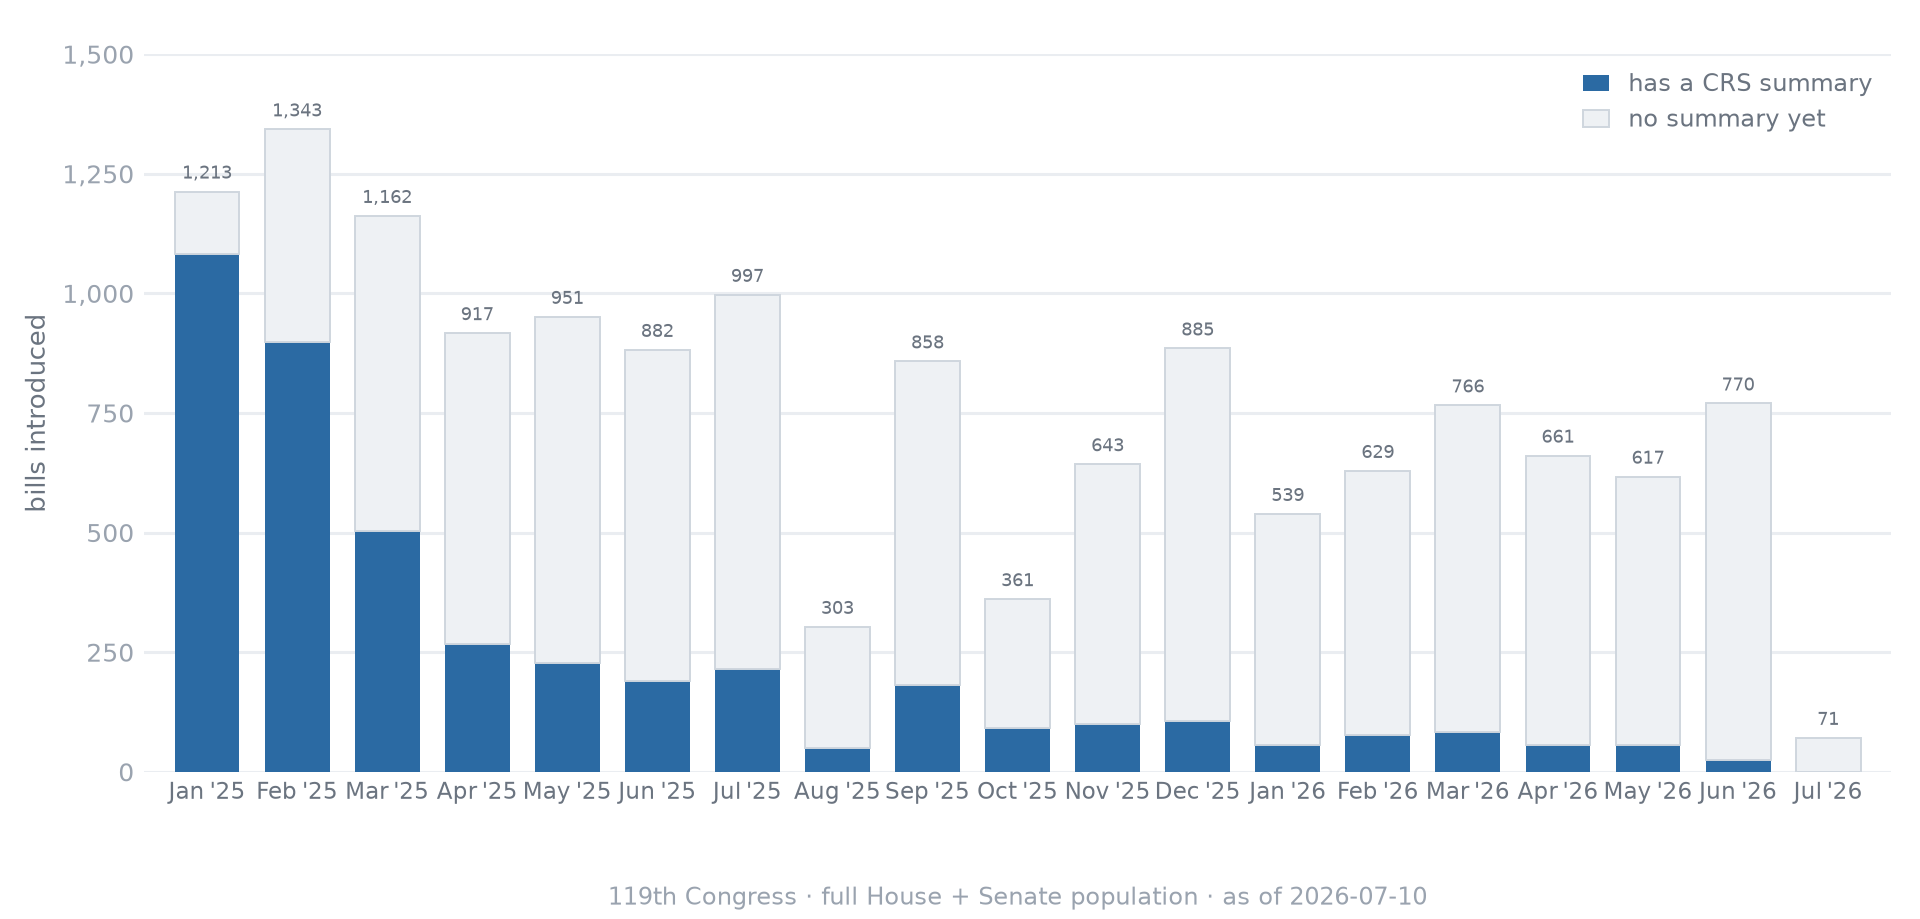
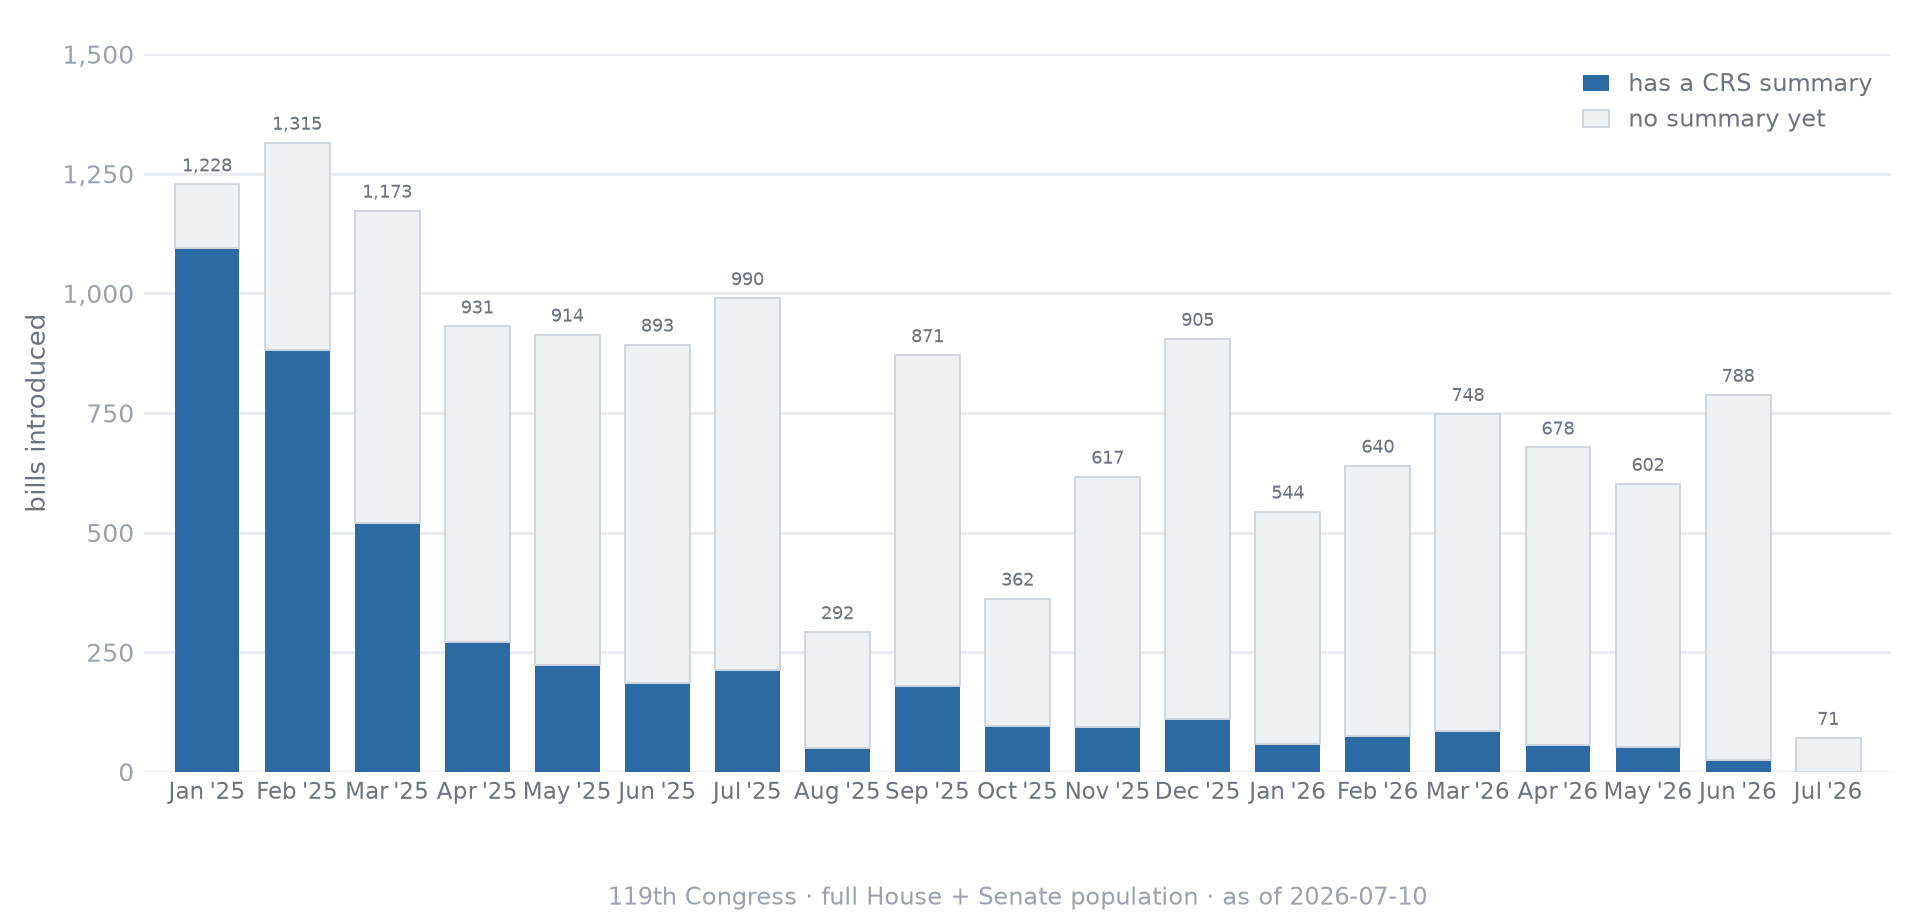
Lag monthly volume: exact full-population dates, no sampling or interpolation
Replaces the number->month interpolation with every bill's real introducedDate,
parsed from the GovInfo BILLSTATUS bulk data (one ~small zip per chamber). All
14,562 House+Senate bills are placed on the timeline by their exact introduced
month — the full population, not a sample. Verified against the census (matches
to within a handful of bills GovInfo lacks a date for).

analyze_lag.py: new govinfo_intro_months() (live) and api_intro_months()
(offline/fixture) both give exact per-bill months; the random sample now
survives only as the stage-classifier QA check (stage_agreement) and feeds no
displayed count. months[] carries just volume_total / volume_summarized. initLag
computes recent coverage from the exact volume and no longer calls the monthly
data a sample. Docstring, README, and tests updated.

Claude-Session: https://claude.ai/code/session_01AW3Ac5hqtSWnUr1gG9N3MG

diff --git a/docs/assets/app.js b/docs/assets/app.js
@@ -482,13 +482,17 @@ async function initLag() {
 
   const hr = d.chambers.hr, s = d.chambers.s;
   const totBills = hr.total + s.total, totSum = hr.summarized + s.summarized;
+  // recent coverage from the exact monthly volume (pooled over the last 3 months)
   const recent = d.months.slice(-3);
-  const recentCov = recent.reduce((a, m) => a + m.coverage, 0) / recent.length;
+  const recentTot = recent.reduce((a, m) => a + (m.volume_total || 0), 0);
+  const recentSum = recent.reduce((a, m) => a + (m.volume_summarized || 0), 0);
+  const recentCov = recentTot ? recentSum / recentTot
+    : (recent.length ? recent.reduce((a, m) => a + (m.coverage || 0), 0) / recent.length : null);
   const fmtK = (n) => n.toLocaleString("en-US");
 
-  meta.textContent = `${d.congress}th Congress · ${fmtK(d.sampled)} bills sampled · as of ${d.generated_at}` +
+  meta.textContent = `${d.congress}th Congress · full House + Senate population · as of ${d.generated_at}` +
     (typeof d.stage_agreement === "number"
-      ? ` · stage classifiers agree on ${pct(d.stage_agreement)} of sampled bills`
+      ? ` · stage classifiers agree on ${pct(d.stage_agreement)} of a QA sample`
       : "");
 
   let cards;

diff --git a/src/analyze_lag.py b/src/analyze_lag.py
@@ -2,18 +2,19 @@
 
 "How behind" has three parts now (issue #6):
 - the backlog: what share of bills have no CRS summary yet,
-- the timing lag: coverage as a function of how recently a bill was introduced,
+- monthly volume: how many bills are introduced each month and how many are summarized —
+  the FULL population, every bill placed by its exact introducedDate,
 - coverage by legislative stage: CRS prioritizes bills that MOVE, so coverage is also
   measured against bills that advanced (committee action / floor consideration), not
   just against everything introduced.
 
-Stage data comes from two layers. A full census pages the `bill/{congress}/{type}`
-list endpoint (~250 bills/request) and classifies every bill's `latestAction` text with
-src/stages.py — floor-stage bills are far too rare for a random sample to measure, so
-the census provides exact per-stage denominators. The random sample (unchanged, for the
-by-month series) additionally fetches each sampled bill's `/actions` list and classifies
-the full action history; agreement between the two classifiers is reported as
-`stage_agreement`, a validity check on the cheaper latestAction census.
+All three are exact, not sampled. A full census pages the `bill/{congress}/{type}` list
+endpoint and classifies every bill's `latestAction` text with src/stages.py for the
+per-stage totals. Monthly volume reads every bill's exact `introducedDate` from the
+GovInfo BILLSTATUS bulk data (one small zip per chamber). A small random sample survives
+only as QA: it fetches each sampled bill's `/actions` history and reports `stage_agreement`
+— how often the cheap latestAction classifier matches the full-history one — and feeds no
+displayed count.
 
 Note: Congress.gov `updateDate` fields are bulk-refreshed, so we measure *whether a
 summary exists today* (reliable), not the exact authoring date. Usage:
@@ -24,12 +25,14 @@ from __future__ import annotations
 
 import argparse
 import asyncio
-import bisect
 import json
 import os
 import random
+import re
 import sys
+import tempfile
 import time
+import zipfile
 from collections import defaultdict
 from pathlib import Path
 
@@ -129,25 +132,48 @@ async def sample_bills(get, congress, btype, total, k, summ):
     return [r for r in await asyncio.gather(*[one(n) for n in nums]) if r[1]]
 
 
-def month_mapper(rows):
-    """Build number -> introduction-month lookup from sampled (number, intro, ...) rows.
+GOVINFO_ZIP = ("https://www.govinfo.gov/bulkdata/BILLSTATUS/"
+               "{congress}/{btype}/BILLSTATUS-{congress}-{btype}.zip")
+_INTRO_RE = re.compile(rb"<introducedDate>(\d{4}-\d{2}-\d{2})</introducedDate>")
 
-    Bill numbers within a chamber are assigned in introduction order, so the sample is a
-    dense number->month curve (~1 point per dozen bills). For any bill number we take the
-    month of the sampled bill with the largest number <= it (a step function) — letting us
-    place every bill in the full census on the timeline without fetching each one's date.
-    """
-    pts = sorted((num, intro[:7]) for num, intro, *_ in rows if intro)
-    nums = [p[0] for p in pts]
-    mons = [p[1] for p in pts]
 
-    def month_for(n):
-        if not nums:
-            return None
-        i = max(0, bisect.bisect_right(nums, n) - 1)
-        return mons[i]
+async def govinfo_intro_months(client, congress, btype):
+    """{bill_number: 'YYYY-MM'} for EVERY bill of this type, parsed from the GovInfo
+    BILLSTATUS bulk zip — the exact introduced date for the full population, no sampling
+    and no interpolation. The bill number comes from each entry's filename; the date from
+    its <introducedDate>."""
+    url = GOVINFO_ZIP.format(congress=congress, btype=btype)
+    r = await client.get(url, timeout=300, follow_redirects=True)
+    r.raise_for_status()
+    name_re = re.compile((rf"BILLSTATUS-{congress}{btype}(\d+)\.xml$").encode())
+    out: dict[int, str] = {}
+    with tempfile.NamedTemporaryFile(suffix=".zip") as tf:
+        tf.write(r.content)
+        tf.flush()
+        with zipfile.ZipFile(tf.name) as z:
+            for name in z.namelist():
+                m = name_re.search(name.encode())
+                if not m:
+                    continue
+                dm = _INTRO_RE.search(z.read(name))
+                if dm:
+                    out[int(m.group(1))] = dm.group(1).decode()[:7]
+    return out
 
-    return month_for
+
+async def api_intro_months(get, congress, btype, numbers):
+    """Exact introduced month per bill from the bill endpoint — the offline/fixture path
+    (when the GovInfo bulk download isn't available, e.g. tests). Still exact, no sampling."""
+    out: dict[int, str] = {}
+    for n in numbers:
+        try:
+            d = await get(f"bill/{congress}/{btype}/{n}")
+            intro = d.get("bill", {}).get("introducedDate")
+            if intro:
+                out[n] = intro[:7]
+        except Exception:  # noqa: BLE001
+            pass
+    return out
 
 
 async def main_async(hr_k: int, s_k: int, out_path: Path, get=None) -> dict:
@@ -156,6 +182,7 @@ async def main_async(hr_k: int, s_k: int, out_path: Path, get=None) -> dict:
     to_date = time.strftime("%Y-%m-%dT%H:%M:%SZ", time.gmtime())
 
     own_client = None
+    live = get is None  # live run downloads GovInfo bulk data; fixture path stays offline
     if get is None:
         C.load_env()
         key = os.environ.get("CONGRESS_API_KEY")
@@ -185,46 +212,34 @@ async def main_async(hr_k: int, s_k: int, out_path: Path, get=None) -> dict:
             rows = await sample_bills(get, congress, btype, total, k, summ)
             sample += rows
 
-            # true monthly VOLUME: place every censused bill on the timeline via the
-            # sampled number->month curve, then tally introduced vs. summarized per month.
-            month_for = month_mapper(rows)
-            for n, latest in census:
-                m = month_for(n)
-                if m is None:
-                    continue
-                volume[m][0] += 1
+            # exact monthly VOLUME: the true introduced date of EVERY bill — the full
+            # population, no sampling and no interpolation. Live runs read the GovInfo
+            # BILLSTATUS bulk zip; the offline/fixture path reads the bill endpoint.
+            if live:
+                intro_months = await govinfo_intro_months(own_client, congress, btype)
+            else:
+                intro_months = await api_intro_months(get, congress, btype,
+                                                      [n for n, _ in census])
+            for n, month in intro_months.items():
+                volume[month][0] += 1
                 if n in summ:
-                    volume[m][1] += 1
+                    volume[month][1] += 1
 
             chambers[btype] = {"total": total, "summarized": len(summ),
                                "pct": round(len(summ) / total, 4)}
             print(f"{btype}: {len(summ)}/{total} summarized ({len(summ)/total*100:.0f}%), sampled {len(rows)}")
 
-        # validity check: does the cheap latestAction classifier agree with the
-        # full-action-history classifier on the sampled bills?
+        # QA only: does the cheap latestAction stage classifier (used for the full census)
+        # agree with the full-action-history classifier on a sample of bills? This is a
+        # classifier validity check — it does not feed any displayed count.
         pairs = [(stages.classify_action_text(latest), st)
                  for _, _, _, st, latest in sample if st is not None and latest]
         agreement = round(sum(1 for a, b in pairs if a == b) / len(pairs), 4) if pairs else None
 
-        by = defaultdict(lambda: [0, 0, 0, 0])  # month -> [n, summarized, advanced_n, advanced_summarized]
-        for _, intro, has, stage, _ in sample:
-            row = by[intro[:7]]
-            row[0] += 1
-            row[1] += 1 if has else 0
-            if stage in ADVANCED:
-                row[2] += 1
-                row[3] += 1 if has else 0
-        months = []
-        for m in sorted(set(by) | set(volume)):
-            n, summ_n, adv_n, adv_s = by.get(m, [0, 0, 0, 0])
-            vt, vs = volume.get(m, [0, 0])
-            months.append({
-                "month": m, "n": n, "summarized": summ_n,
-                "coverage": round(summ_n / n, 4) if n else None,
-                "advanced_n": adv_n, "advanced_summarized": adv_s,
-                "advanced_coverage": round(adv_s / adv_n, 4) if adv_n else None,
-                "volume_total": vt, "volume_summarized": vs,
-            })
+        # monthly series is the exact full population: total introduced and summarized per
+        # month, every bill placed by its real introducedDate.
+        months = [{"month": m, "volume_total": volume[m][0], "volume_summarized": volume[m][1]}
+                  for m in sorted(volume)]
 
         out = {
             "generated_at": time.strftime("%Y-%m-%d %H:%M:%S UTC", time.gmtime()),
@@ -237,9 +252,9 @@ async def main_async(hr_k: int, s_k: int, out_path: Path, get=None) -> dict:
             "stage_method": ("latestAction-text census over every hr/s bill (list endpoint), "
                              "validated against full /actions classification on the sample"),
             "stage_agreement": agreement,
-            "volume_method": ("every censused bill placed on the timeline via the sampled "
-                              "bill-number->introduction-month curve (numbers are assigned in "
-                              "introduction order); counts are the full population, not the sample"),
+            "volume_method": ("exact introducedDate for every House and Senate bill "
+                              "(GovInfo BILLSTATUS bulk data); full population, no sampling "
+                              "or interpolation"),
             "months": months,
         }
         C.write_json(out_path, out)

diff --git a/tests/test_analyze_lag.py b/tests/test_analyze_lag.py
@@ -51,29 +51,17 @@ def test_stage_agreement_flags_latestaction_blindspots(tmp_path, monkeypatch):
     assert out["stage_agreement"] == 0.9
 
 
-def test_monthly_advanced_coverage(tmp_path, monkeypatch):
+def test_monthly_volume_is_exact_full_population(tmp_path, monkeypatch):
     monkeypatch.delenv("CRS_CONFIG", raising=False)
     out, _ = run(tmp_path)
     months = {m["month"]: m for m in out["months"]}
-    jan, feb, mar = months["2025-01"], months["2025-02"], months["2025-03"]
-    assert (jan["n"], jan["summarized"], jan["advanced_n"], jan["advanced_summarized"]) == (3, 1, 1, 1)
-    assert jan["advanced_coverage"] == 1.0
-    # hr4 counts as advanced here via its full action history (hearings held)
-    assert (feb["n"], feb["summarized"], feb["advanced_n"], feb["advanced_summarized"]) == (3, 3, 3, 3)
-    assert (mar["n"], mar["summarized"], mar["advanced_n"], mar["advanced_summarized"]) == (4, 2, 3, 2)
-    assert mar["advanced_coverage"] == round(2 / 3, 4)
-
-
-def test_monthly_volume_from_full_census(tmp_path, monkeypatch):
-    monkeypatch.delenv("CRS_CONFIG", raising=False)
-    out, _ = run(tmp_path)
-    months = {m["month"]: m for m in out["months"]}
-    # every censused bill placed on the timeline via the number->month curve; in this
-    # fixture the sample covers the whole population, so volume == census counts.
+    # each bill placed by its exact introducedDate (offline path reads the bill endpoint);
+    # every censused bill is counted, so months carry only exact volume — no sampled fields.
+    assert set(months["2025-01"]) == {"month", "volume_total", "volume_summarized"}
     assert (months["2025-01"]["volume_total"], months["2025-01"]["volume_summarized"]) == (3, 1)
     assert (months["2025-02"]["volume_total"], months["2025-02"]["volume_summarized"]) == (3, 3)
     assert (months["2025-03"]["volume_total"], months["2025-03"]["volume_summarized"]) == (4, 2)
-    # volume is the full population (10 bills), not the sample
+    # the full population (10 bills, 6 summarized), not a sample
     assert sum(m["volume_total"] for m in out["months"]) == 10
     assert sum(m["volume_summarized"] for m in out["months"]) == 6
-    assert "volume_method" in out
+    assert "volume_method" in out and "no sampling" in out["volume_method"]

diff --git a/README.md b/README.md
@@ -105,11 +105,13 @@ spend OpenRouter credit. Run `pip install -r requirements-dev.txt && pytest test
 pipeline's pure logic (stage classification, chunking, retrieval, readability, extractors) is fully
 tested offline.
 
-- **CRS lag page** (issue #6): `python src/analyze_lag.py && python src/plot_lag.py` — now also runs
-  a latest-action census of every hr/s bill (~60 list requests) plus the sampled bills' action
-  histories (~1.1k requests) to produce per-stage coverage (floor / committee / introduced).
-  `plot_lag.py` writes two charts: `crs-lag.png` (coverage by month) and `crs-lag-stages.png`
-  (coverage by legislative stage, from the census).
+- **CRS lag page** (issue #6): `python src/analyze_lag.py && python src/plot_lag.py`. Everything
+  displayed is the exact full population: a latest-action census of every hr/s bill for per-stage
+  coverage (floor / committee / introduced), and every bill's exact `introducedDate` from the
+  **GovInfo BILLSTATUS bulk data** (one small zip per chamber, ~38 MB) for monthly volume — no
+  sampling or interpolation. A small `/actions` sample survives only as a stage-classifier QA
+  check (`stage_agreement`). `plot_lag.py` writes two charts: `crs-lag.png` (bills introduced per
+  month, summarized vs not) and `crs-lag-stages.png` (coverage by legislative stage).
 - **Reading levels** (issue #10): `python src/run_models.py --levels eli5,expert` then
   `python src/report.py` (per dataset, with the usual `CRS_DATASET`/`CRS_CONFIG` pair) — ~500
   generation calls per dataset for the two extra levels; no re-judging needed (only the default
